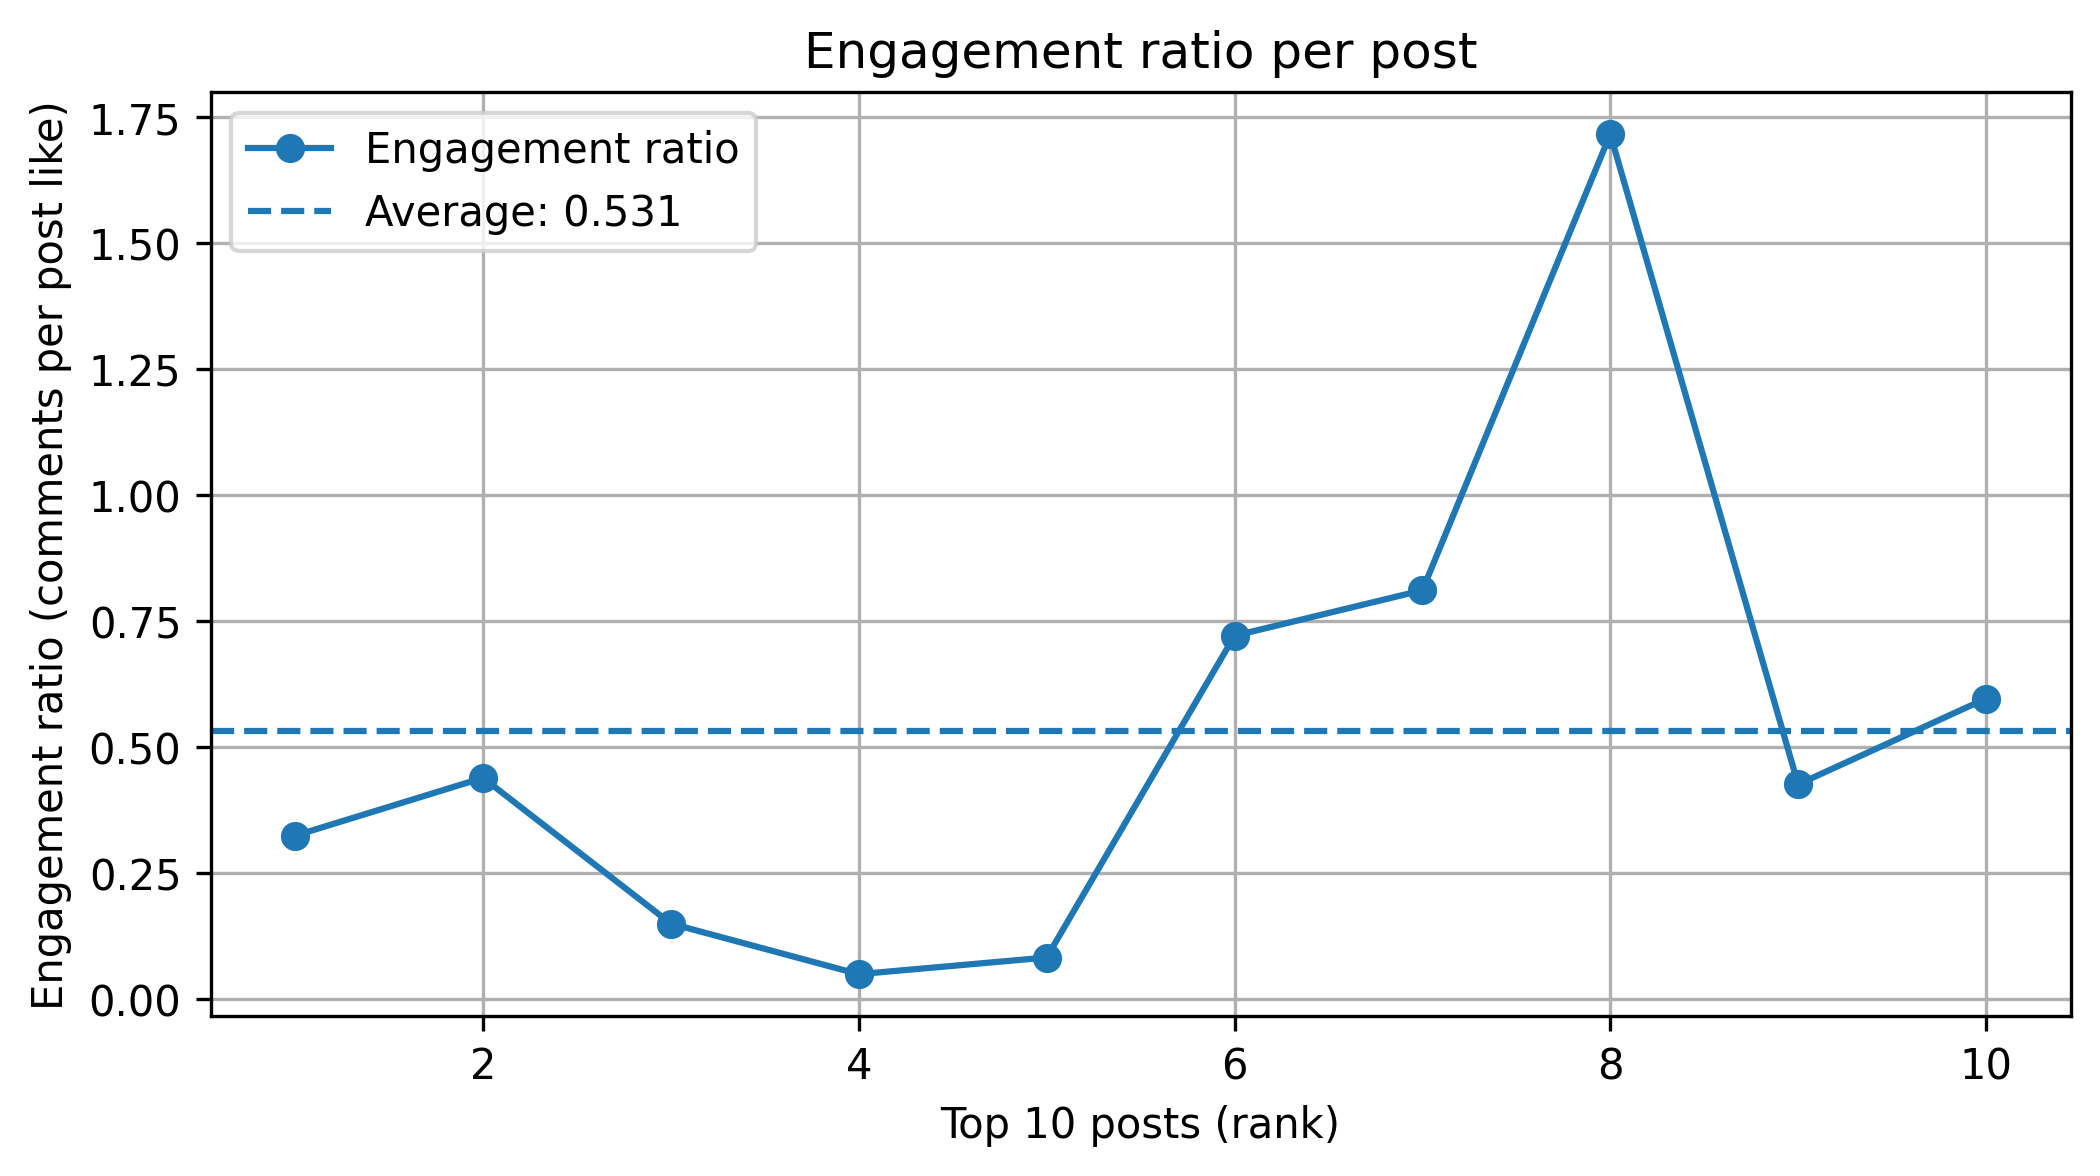
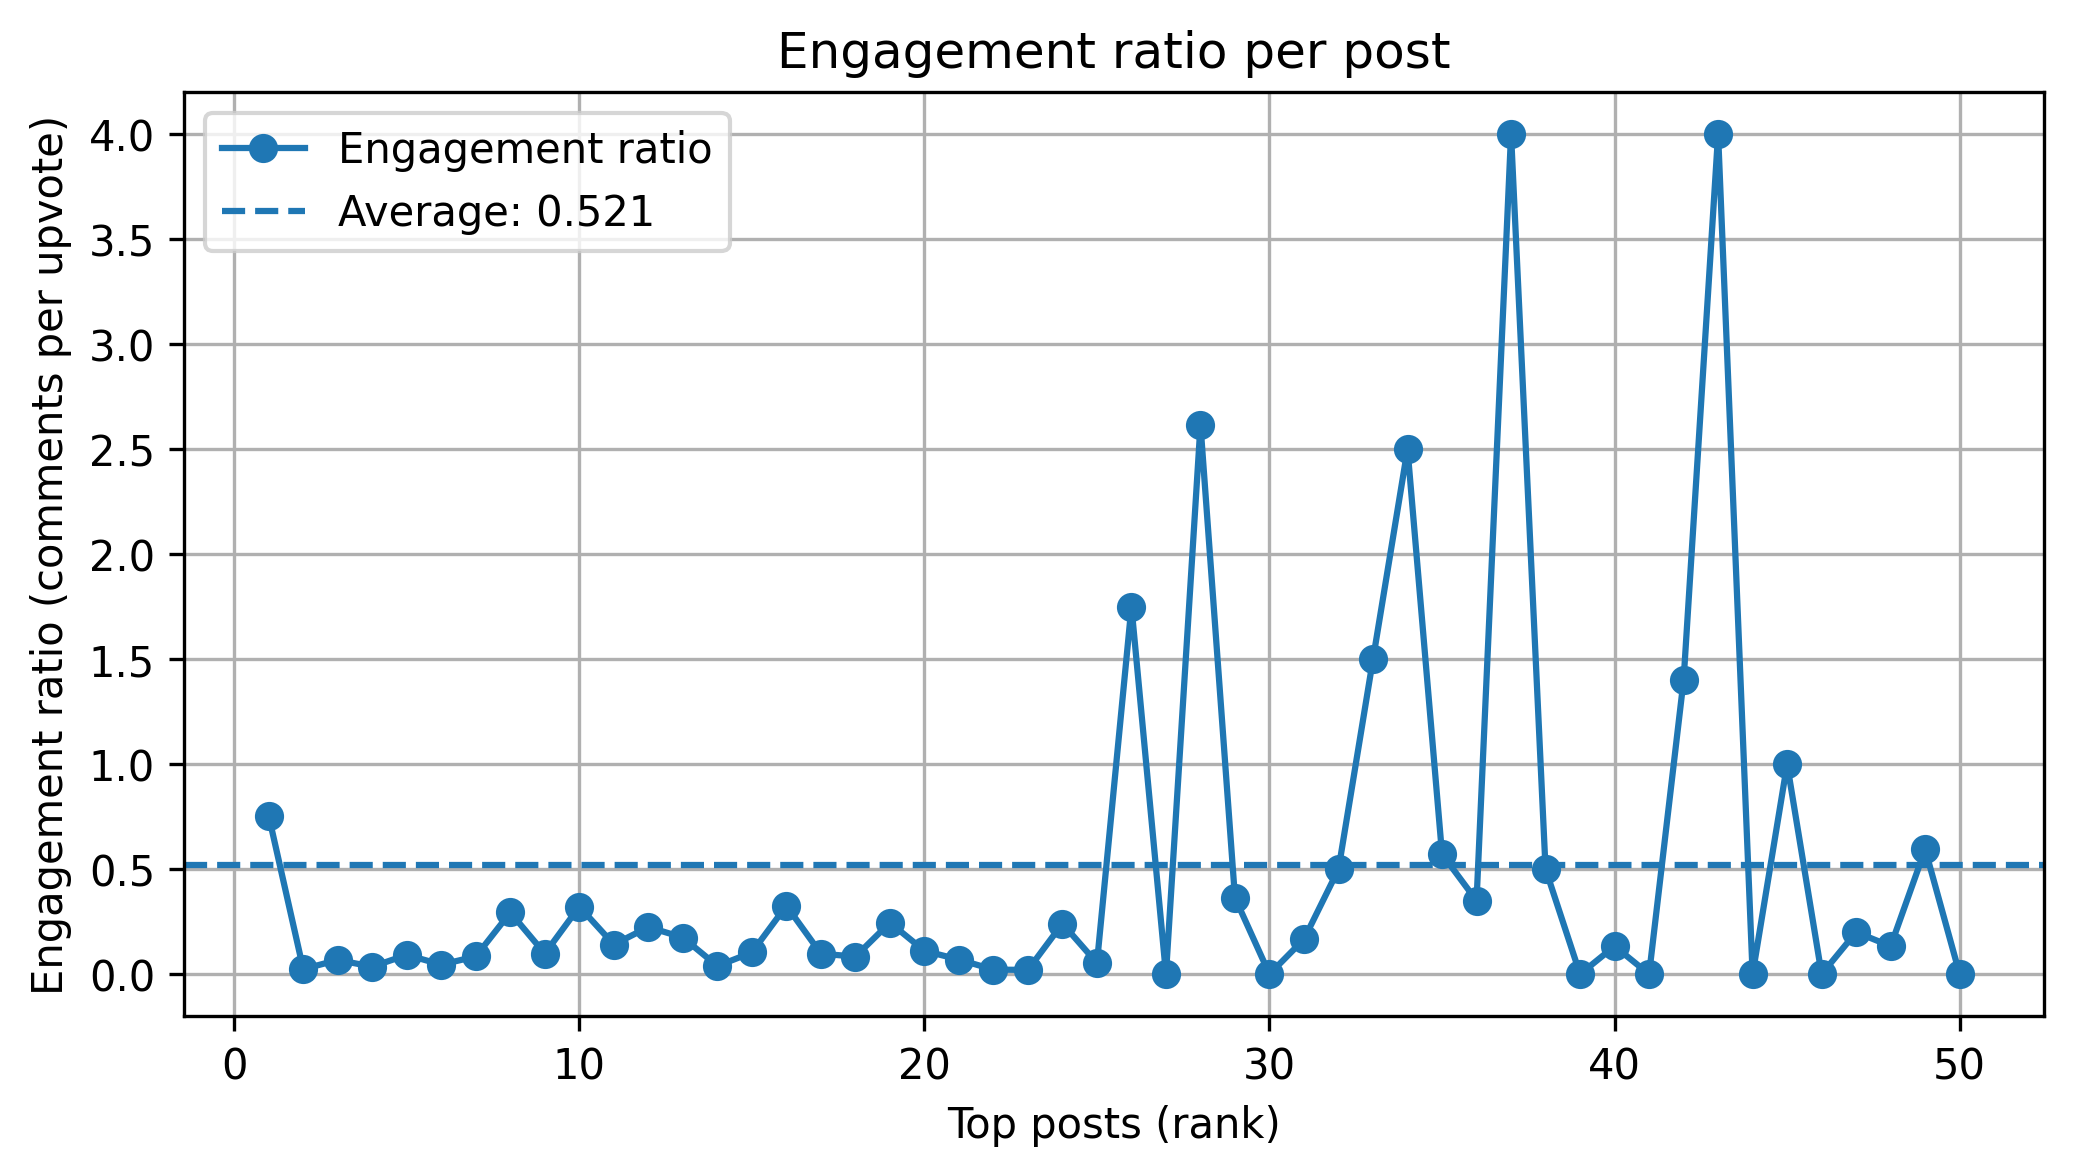
review

diff --git a/graphs/plot__graph.py b/graphs/plot__graph.py
@@ -1,0 +1,79 @@
+import json
+import matplotlib.pyplot as plt
+import numpy as np
+from pathlib import Path
+
+
+def plot_reddit_engagement(
+    json_path: str | Path = "json_storage/posts.json",
+    save_engagement_plot: bool = True,
+    output_path: str | Path = "engagement_plot.png"
+) -> None:
+    """
+    Loads Reddit post data from JSON and plots:
+    1) Post upvotes vs comment count (bar chart)
+    2) Engagement ratio per post (comments / upvotes)
+    """
+
+    json_path = Path(json_path)
+
+    # -----------------------------
+    # LOAD DATA FROM JSON
+    # -----------------------------
+    with json_path.open("r", encoding="utf-8") as f:
+        data = json.load(f)
+
+    post_scores = []
+    comment_scores = []
+    engagement_ratio = []
+
+    for d in data:
+        upvotes = d.get("upvotes", 0)
+        comments = d.get("comment_count", 0)
+
+        post_scores.append(upvotes)
+        comment_scores.append(comments)
+
+        # Avoid division by zero
+        if upvotes > 0:
+            engagement_ratio.append(comments / upvotes)
+        else:
+            engagement_ratio.append(0)
+
+    # -----------------------------
+    # CREATE BAR GRAPH
+    # -----------------------------
+    x = np.arange(1, len(post_scores) + 1)
+    width = 0.35
+
+    fig, ax1 = plt.subplots(figsize=(10, 5))
+
+    ax1.bar(x - width / 2, post_scores, width, label="Post upvotes")
+    ax1.bar(x + width / 2, comment_scores, width, label="Comments")
+
+    ax1.set_xlabel("Top posts (rank)")
+    ax1.set_ylabel("Number of upvotes & comments")
+    ax1.legend(loc="upper left")
+
+    plt.title("Post upvotes and comments")
+    plt.show()
+
+    # -----------------------------
+    # ENGAGEMENT RATIO GRAPH
+    # -----------------------------
+    avg_engagement = sum(engagement_ratio) / len(engagement_ratio)
+
+    plt.figure(figsize=(8, 4))
+    plt.plot(x, engagement_ratio, marker="o", label="Engagement ratio")
+    plt.axhline(avg_engagement, linestyle="--", label=f"Average: {avg_engagement:.3f}")
+
+    plt.xlabel("Top posts (rank)")
+    plt.ylabel("Engagement ratio (comments per upvote)")
+    plt.title("Engagement ratio per post")
+    plt.grid(True)
+    plt.legend()
+
+    if save_engagement_plot:
+        plt.savefig(output_path, dpi=300, bbox_inches="tight")
+
+    plt.show()

diff --git a/graphs/plot_graph.py b/graphs/plot_graph.py
@@ -5,7 +5,7 @@ import numpy as np
 # -----------------------------
 # LOAD DATA FROM JSON
 # -----------------------------
-with open("reddit_data.json", "r", encoding="utf-8") as f:
+with open("json_storage/posts.json", "r", encoding="utf-8") as f:
     data = json.load(f)
 
 post_scores = [d["post_upvotes"] for d in data]

diff --git a/main.py b/main.py
@@ -1,4 +1,7 @@
 #you start this file to start the entire program
-from bot.reddit_children_finder import maintest
+from json_storage.json_loader import save_posts_unique
+from graphs.plot__graph import plot_reddit_engagement
 
-maintest()
+if __name__ == '__main__':
+    save_posts_unique()
+    plot_reddit_engagement()
